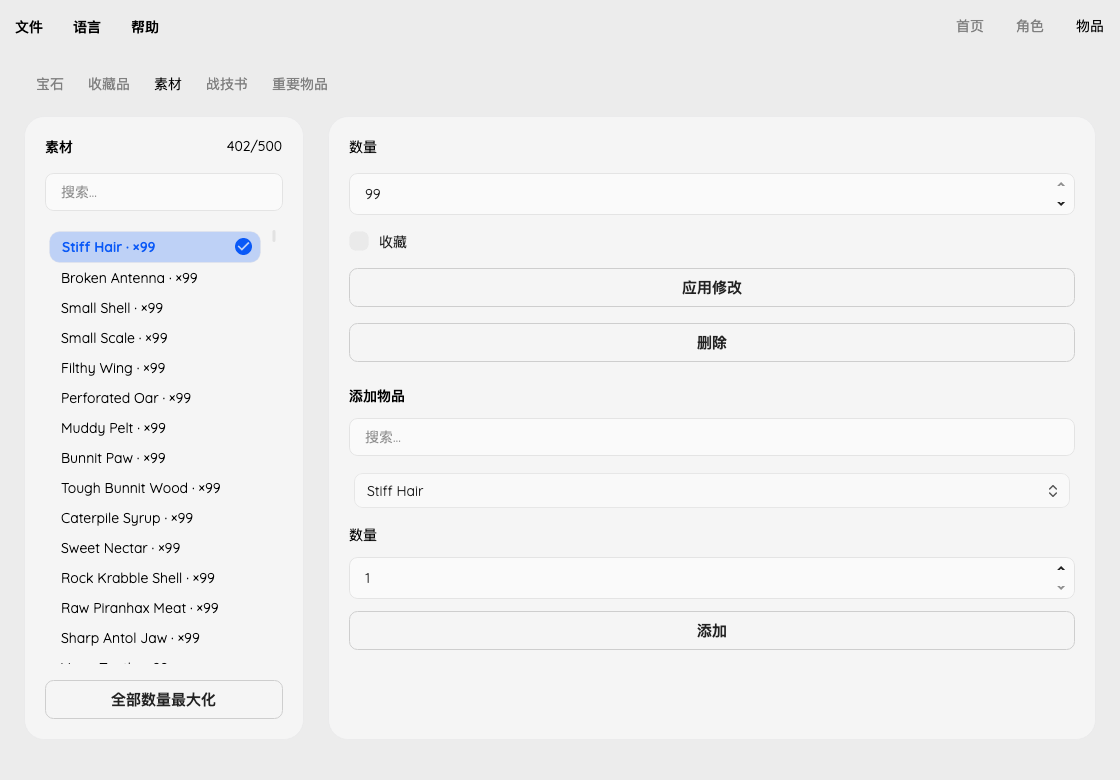
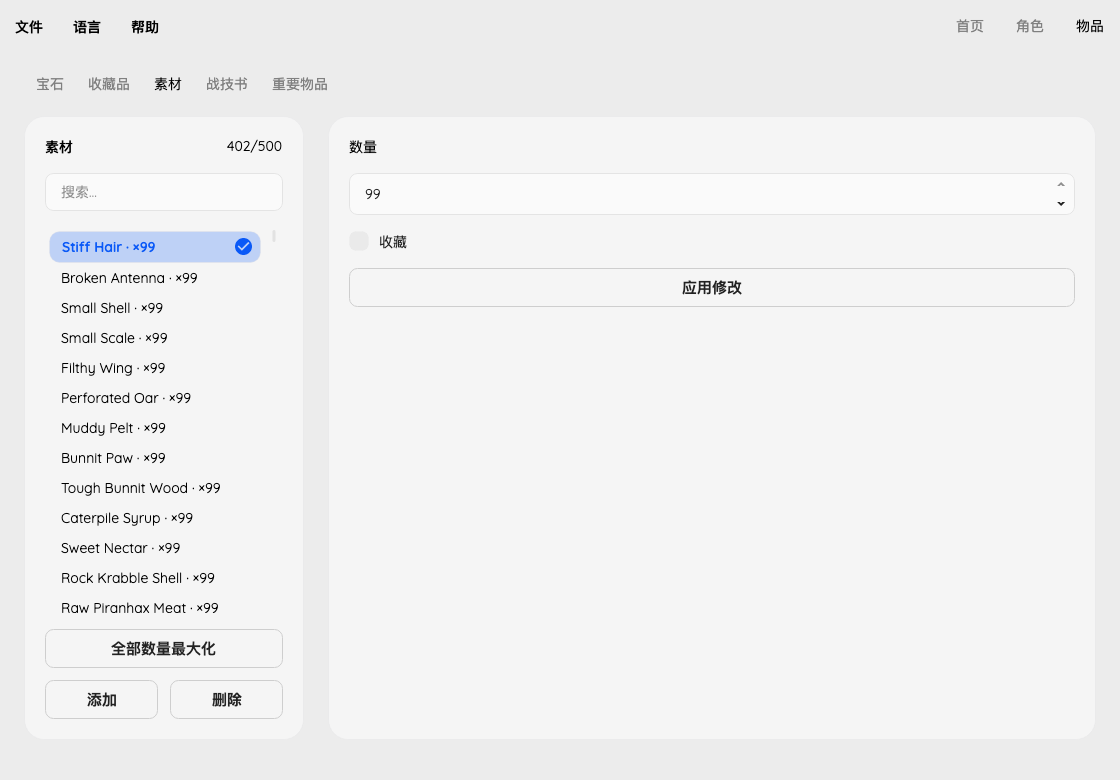
fix(gui): keep inventory creation in the list footer

diff --git a/gui/MainWindow.Inventory.cs b/gui/MainWindow.Inventory.cs
@@ -77,26 +77,22 @@ public partial class MainWindow
             InventoryFavoriteInput.IsChecked = _inventoryItem?.Favorite ?? false;
             InventoryQuantityValue.Text = _inventoryItem?.Quantity.ToString();
             bool writable = Session is not null && Session.Document.Campaign != Campaign.Unknown && _inventoryKind != InventoryKind.KeyItems;
-            MaxInventoryButton.IsVisible = AddInventoryInputs.IsVisible = _inventoryKind != InventoryKind.KeyItems;
+            InventoryActions.IsVisible = _inventoryKind != InventoryKind.KeyItems;
             MaxInventoryButton.IsEnabled = writable && items.Count > 0 && items.All(item => item.CanEdit);
-            AddInventoryInputs.IsEnabled = writable;
-            RefreshInventoryCatalog();
+            AddInventoryButton.IsEnabled = writable;
+            DeleteInventoryButton.IsEnabled = editable;
         }
         finally { _refreshingInventory = false; }
     }
 
-    private void RefreshInventoryCatalog()
+    private static InventoryChoice[] InventoryChoices(InventoryKind kind, string query)
     {
-        int? selected = (InventoryDefinitionInput.SelectedItem as InventoryChoice)?.Id;
-        string query = InventoryCatalogSearch.Text?.Trim() ?? "";
-        var definitions = InventoryCatalog.Definitions.Where(item => item.Kind == _inventoryKind
+        var definitions = InventoryCatalog.Definitions.Where(item => item.Kind == kind
             && item.Name.Contains(query, StringComparison.OrdinalIgnoreCase)).ToArray();
         var repeatedNames = definitions.GroupBy(item => item.Name).Where(group => group.Count() > 1)
             .Select(group => group.Key).ToHashSet();
-        var choices = definitions.Select(item => new InventoryChoice(item.Id,
+        return definitions.Select(item => new InventoryChoice(item.Id,
             repeatedNames.Contains(item.Name) ? $"{item.Name} ({item.Id})" : item.Name)).ToArray();
-        InventoryDefinitionInput.ItemsSource = choices;
-        InventoryDefinitionInput.SelectedItem = choices.FirstOrDefault(choice => choice.Id == selected) ?? choices.FirstOrDefault();
     }
 
     private bool CommitInventoryDraft()
@@ -131,8 +127,6 @@ public partial class MainWindow
 
     private void InventorySearch_Changed(object? sender, TextChangedEventArgs e)
     { if (!_refreshingInventory && CommitInventoryDraft()) RefreshInventory(); }
-    private void InventoryCatalogSearch_Changed(object? sender, TextChangedEventArgs e)
-    { if (InventoryDefinitionInput is not null) RefreshInventoryCatalog(); }
     private void ApplyInventory_Click(object? sender, RoutedEventArgs e)
     { if (CommitInventoryDraft()) RefreshInventory(); }
 
@@ -148,19 +142,56 @@ public partial class MainWindow
         ApplyInventoryEdit(() => _inventoryItem.Delete());
     }
 
-    private void AddInventory_Click(object? sender, RoutedEventArgs e)
+    private async void AddInventory_Click(object? sender, RoutedEventArgs e)
     {
-        if (Session is null || InventoryDefinitionInput.SelectedItem is not InventoryChoice choice || !CommitInventoryDraft()) return;
-        if (!WholeNumber(AddInventoryQuantityInput.Value, out uint quantity) || quantity is < 1 or > 99)
-        { ShowStatus(UiLanguage.Get("InvalidValue")); return; }
-        ApplyInventoryEdit(() =>
+        if (Session is null || _inventoryKind == InventoryKind.KeyItems || !CommitInventoryDraft()) return;
+        var session = Session;
+        var kind = _inventoryKind;
+        var search = new TextBox { Name = "NewItemSearch", PlaceholderText = UiLanguage.Get("Search") };
+        var item = new ComboBox { Name = "NewItemDefinition", HorizontalAlignment = Avalonia.Layout.HorizontalAlignment.Stretch,
+            DisplayMemberBinding = new Avalonia.Data.Binding("Label") };
+        var quantity = new NumericUpDown { Name = "NewItemQuantity", Minimum = 1, Maximum = 99, Value = 1, FormatString = "0" };
+        var error = new TextBlock { TextWrapping = Avalonia.Media.TextWrapping.Wrap };
+        var add = new Button { Name = "CreateItem", Content = UiLanguage.Get("Add"), HorizontalAlignment = Avalonia.Layout.HorizontalAlignment.Stretch };
+        var cancel = new Button { Name = "CancelCreateItem", Content = UiLanguage.Get("Cancel"), HorizontalAlignment = Avalonia.Layout.HorizontalAlignment.Stretch };
+        var dialog = new Window
         {
-            var added = Session.Document.AddInventoryItem(choice.Id, (int)quantity);
-            _inventorySelections[_inventoryKind] = added.Index;
-            _refreshingInventory = true;
-            InventorySearch.Text = "";
-            _refreshingInventory = false;
-        });
+            Title = UiLanguage.Get("AddItem"), Width = 440, SizeToContent = SizeToContent.Height,
+            CanResize = false, WindowStartupLocation = WindowStartupLocation.CenterOwner,
+            Content = new StackPanel { Margin = new Avalonia.Thickness(24), Spacing = 12, Children =
+            {
+                search, item, new TextBlock { Text = UiLanguage.Get("Quantity") }, quantity, error, add, cancel
+            } }
+        };
+        void RefreshChoices()
+        {
+            int? selected = (item.SelectedItem as InventoryChoice)?.Id;
+            var choices = InventoryChoices(kind, search.Text?.Trim() ?? "");
+            item.ItemsSource = choices;
+            item.SelectedItem = choices.FirstOrDefault(choice => choice.Id == selected) ?? choices.FirstOrDefault();
+            add.IsEnabled = choices.Length > 0;
+        }
+        search.TextChanged += (_, _) => RefreshChoices();
+        RefreshChoices();
+        add.Click += (_, _) =>
+        {
+            if (Session != session || item.SelectedItem is not InventoryChoice choice
+                || !WholeNumber(quantity.Value, out uint count) || count is < 1 or > 99)
+            { error.Text = UiLanguage.Get("InvalidValue"); return; }
+            try
+            {
+                _inventorySelections[kind] = session.Document.AddInventoryItem(choice.Id, (int)count).Index;
+                _refreshingInventory = true;
+                InventorySearch.Text = "";
+                _refreshingInventory = false;
+                dialog.Close();
+                RefreshInventory();
+                ShowStatus(null);
+            }
+            catch (ArgumentException) { error.Text = UiLanguage.Get("InvalidInventory"); }
+        };
+        cancel.Click += (_, _) => dialog.Close();
+        await dialog.ShowDialog(this);
     }
 
     private void ApplyInventoryEdit(Action edit)

diff --git a/test/GuiProgram.cs b/test/GuiProgram.cs
@@ -574,6 +574,16 @@ try
     Check(itemTabs.SelectedIndex == 1 && itemList.ItemCount == 0 && !window.Session!.HasChanges,
         "Inventory inspection changes bytes or displays the wrong category.");
     addItem.RaiseEvent(new RoutedEventArgs(Button.ClickEvent));
+    Dispatcher.UIThread.RunJobs();
+    var itemDialog = window.OwnedWindows.Single();
+    T ItemDialogControl<T>(string name) where T : Control => itemDialog.GetVisualDescendants().OfType<T>().Single(control => control.Name == name);
+    ItemDialogControl<NumericUpDown>("NewItemQuantity").Value = 1.5m;
+    ItemDialogControl<Button>("CreateItem").RaiseEvent(new RoutedEventArgs(Button.ClickEvent));
+    Check(itemList.ItemCount == 0 && window.OwnedWindows.Count == 1 && !window.Session!.HasChanges,
+        "Creation committed a fractional quantity.");
+    ItemDialogControl<NumericUpDown>("NewItemQuantity").Value = 1;
+    ItemDialogControl<Button>("CreateItem").RaiseEvent(new RoutedEventArgs(Button.ClickEvent));
+    Dispatcher.UIThread.RunJobs();
     Check(itemList.ItemCount == 1 && quantity.Value == 1, "GUI failed to create a stack.");
     quantity.Value = 2;
     favorite.IsChecked = true;
@@ -601,11 +611,23 @@ try
     window.FindControl<Button>("DeleteInventoryButton")!.RaiseEvent(new RoutedEventArgs(Button.ClickEvent));
     Check(itemList.ItemCount == 0 && !stack.Exists, "GUI deletion failed.");
     window.ShowInventory(InventoryKind.KeyItems);
-    Check(!window.FindControl<StackPanel>("AddInventoryInputs")!.IsVisible
-        && !window.FindControl<Button>("MaxInventoryButton")!.IsVisible, "Quest items expose mutation controls.");
+    Check(!window.FindControl<StackPanel>("InventoryActions")!.IsVisible, "Quest items expose mutation controls.");
     window.ShowInventory(InventoryKind.ArtManuals);
-    window.FindControl<TextBox>("InventoryCatalogSearch")!.Text = "(Master)";
-    Check(window.FindControl<ComboBox>("InventoryDefinitionInput")!.ItemCount > 0, "Manual tier search found no books.");
+    addItem.RaiseEvent(new RoutedEventArgs(Button.ClickEvent));
+    Dispatcher.UIThread.RunJobs();
+    itemDialog = window.OwnedWindows.Single();
+    var itemSearch = ItemDialogControl<TextBox>("NewItemSearch");
+    var catalogItems = ItemDialogControl<ComboBox>("NewItemDefinition");
+    itemSearch.Text = "(Master)";
+    Dispatcher.UIThread.RunJobs();
+    Check(catalogItems.ItemCount > 0, "Manual tier search found no books.");
+    itemSearch.Text = "no matching manual";
+    Dispatcher.UIThread.RunJobs();
+    Check(catalogItems.ItemCount == 0 && !ItemDialogControl<Button>("CreateItem").IsEnabled,
+        "Empty creation search retains a hidden selection.");
+    ItemDialogControl<Button>("CancelCreateItem").RaiseEvent(new RoutedEventArgs(Button.ClickEvent));
+    Dispatcher.UIThread.RunJobs();
+    Check(window.Session.Document.Inventory(InventoryKind.ArtManuals).Count == 0, "Cancelling creation added an item.");
     window.ShowGems();
     Check(itemTabs.SelectedIndex == 0 && !window.FindControl<Button>("DeleteGemButton")!.IsEnabled,
         "Gems navigation or equipped-gem deletion guard failed.");
@@ -624,6 +646,14 @@ try
     window.Width = 860;
     window.Height = 600;
     VerifyPageSpacing();
+    var inventoryActions = window.FindControl<StackPanel>("InventoryActions")!;
+    Check(inventoryActions.GetVisualDescendants().Contains(addItem)
+        && inventoryActions.GetVisualDescendants().Contains(window.FindControl<Button>("DeleteInventoryButton")!),
+        "List-wide inventory actions are not in the left card footer.");
+    var stackPanel = window.FindControl<Grid>("StackItemsPanel")!;
+    var footerPoint = inventoryActions.TranslatePoint(new Point(0, 0), stackPanel)!.Value;
+    Check(footerPoint.X >= 20 && footerPoint.X + inventoryActions.Bounds.Width <= 260.1,
+        "Inventory actions escaped the left card or are clipped.");
     window.Width = 1120;
     window.Height = 780;
     Check(File.ReadAllBytes(inventoryPath).AsSpan().SequenceEqual(inventoryFixture), "Inventory GUI tests changed the source.");

diff --git a/docs/inventory.md b/docs/inventory.md
@@ -4,7 +4,9 @@ Items uses whole-page tabs for Gems, Collectables, Materials, Art Manuals and
 Key Items. Ordinary stacks support quantity/favorite editing, creation, deletion
 and a category-wide maximum of existing quantities. Adding an existing item
 increases its stack rather than creating a duplicate. Key items are view-only
-because their quest-state dependencies have not been validated.
+because their quest-state dependencies have not been validated. List-wide actions
+live in the left card footer. Add opens a separate creation dialog; the right
+card only edits the selected existing item.
 
 ![Material inventory](inventory-zh.png)
 
